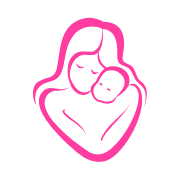
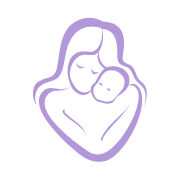
Логотип: цвет как у основной кнопки

diff --git a/components/layout/LogoMark.tsx b/components/layout/LogoMark.tsx
@@ -1,5 +1,5 @@
 /*
- * Знак бренда: мама с малышом. Исходник - public/brand/logo-mark.svg (из CorelDRAW-файла Эммы).
+ * Знак бренда: мама с малышом. Исходник - public/brand/logo-mark.svg (из CorelDRAW-файла Эммы, перекрашен в цвет кнопок).
  * Встроен в разметку, чтобы шапка не ждала отдельной загрузки картинки.
  */
 const PATHS = [

diff --git a/app/globals.css b/app/globals.css
@@ -21,7 +21,7 @@
   --color-lilac-hover: #a487cf;
   --color-lilac-ink: #1c1b19;
   --color-accent: #6d4d9e;
-  --color-logo: #ff3da1;
+  --color-logo: var(--color-lilac);
   --color-accent-soft: #f3eefa;
   --color-kaspi: #e52310;
   --color-kaspi-hover: #c81f0e;
